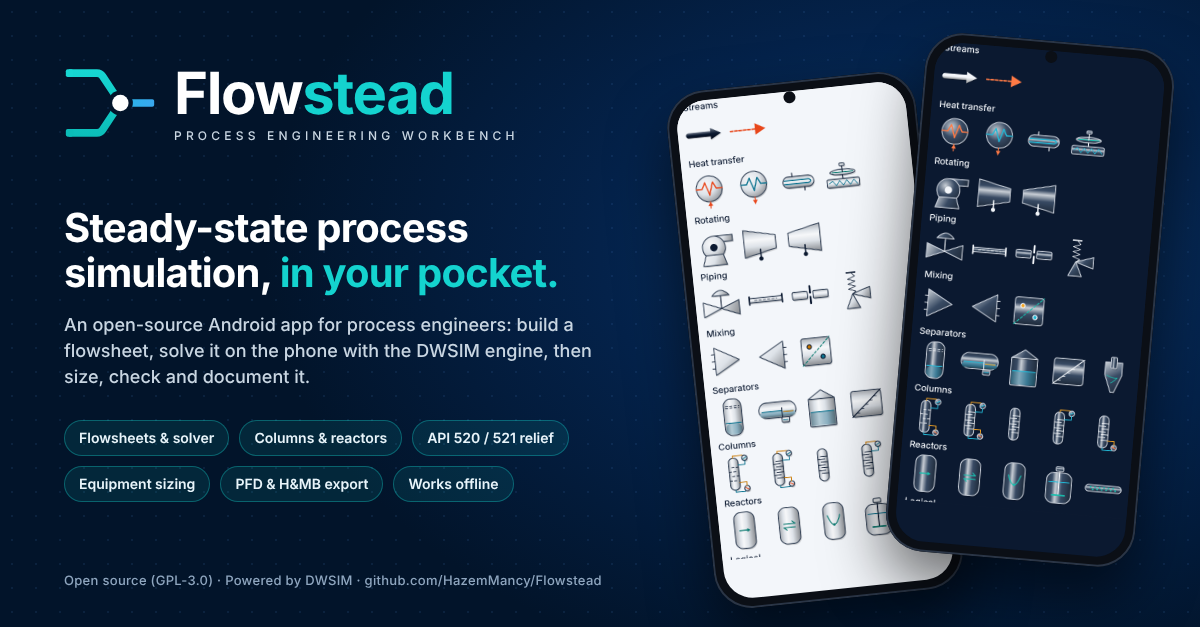
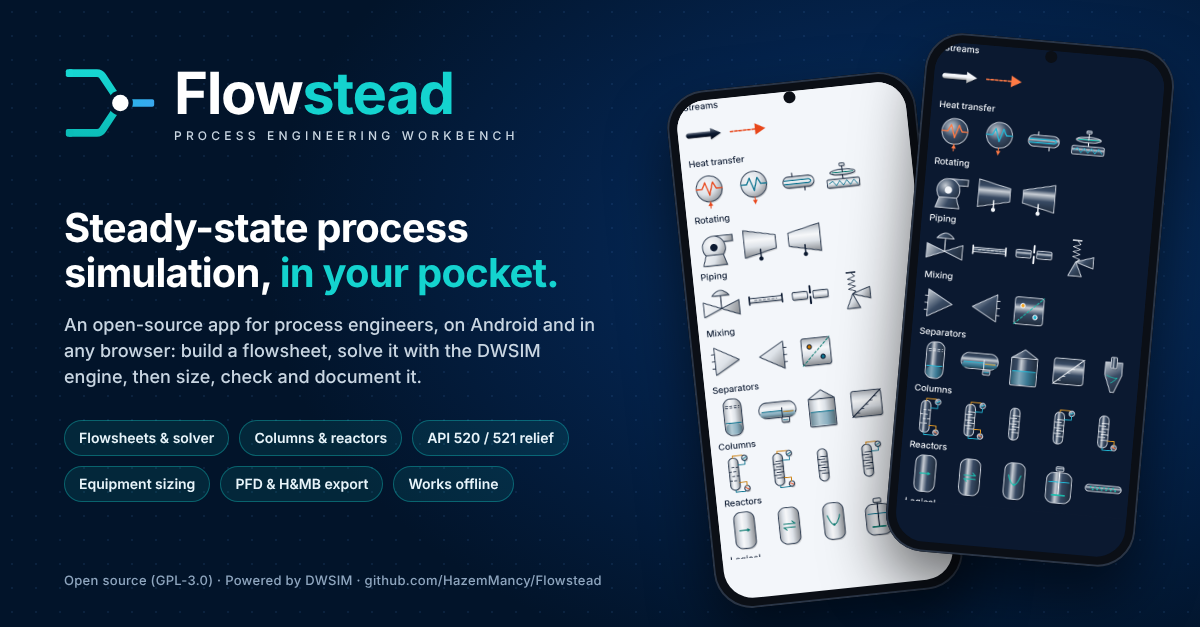
Flowstead page: Android and the web in titles, descriptions, hero and about; new featured image
Claude-Session: https://claude.ai/code/session_01HZRB96Aqg1V3VJki8fwms8

Changed region(s): [[0.0308, 0.4848, 0.4933, 0.6364]]

diff --git a/flowstead.html b/flowstead.html
@@ -3,21 +3,21 @@
 <head>
   <meta charset="UTF-8" />
   <meta name="viewport" content="width=device-width, initial-scale=1.0" />
-  <title>Flowstead — Open-Source Process Simulator for Android | Hazem ElMancy</title>
-  <meta name="description" content="Flowstead is an open-source (GPL-3.0) process simulator for Android built on the DWSIM engine: steady-state and dynamic flowsheets, columns, reactors, PSV sizing and relief (API 520/521/526), line sizing (API 14E) and PDF/Excel data sheets, checked against HYSYS cases." />
+  <title>Flowstead — Open-Source Process Simulator for Android and the Web | Hazem ElMancy</title>
+  <meta name="description" content="Flowstead is an open-source (GPL-3.0) process simulator for Android and the browser (iPhone, iPad, desktop) built on the DWSIM engine: steady-state and dynamic flowsheets, columns, reactors, PSV sizing and relief (API 520/521/526), line sizing (API 14E) and PDF/Excel data sheets, checked against HYSYS cases." />
   <link rel="canonical" href="https://hazemmancy.github.io/flowstead.html" />
   <meta property="og:type" content="website" />
   <meta property="og:site_name" content="Hazem ElMancy" />
-  <meta property="og:title" content="Flowstead — Open-Source Process Simulator for Android" />
-  <meta property="og:description" content="Steady-state and dynamic process simulation on Android, built on the DWSIM engine, with API 520/521/526 relief sizing and HYSYS-checked results. Created by Hazem ElMancy." />
+  <meta property="og:title" content="Flowstead — Open-Source Process Simulator for Android and the Web" />
+  <meta property="og:description" content="Steady-state and dynamic process simulation on Android and in any browser, built on the DWSIM engine, with API 520/521/526 relief sizing and HYSYS-checked results. Created by Hazem ElMancy." />
   <meta property="og:url" content="https://hazemmancy.github.io/flowstead.html" />
   <meta property="og:image" content="https://hazemmancy.github.io/assets/flowstead/flowstead-featured.png" />
   <meta property="og:image:width" content="1200" />
   <meta property="og:image:height" content="627" />
   <meta property="og:image:alt" content="Flowstead: steady-state process simulation in your pocket, shown on two phones" />
   <meta name="twitter:card" content="summary_large_image" />
-  <meta name="twitter:title" content="Flowstead — Open-Source Process Simulator for Android" />
-  <meta name="twitter:description" content="Steady-state and dynamic process simulation on Android, built on the DWSIM engine, with API 520/521/526 relief sizing and HYSYS-checked results." />
+  <meta name="twitter:title" content="Flowstead — Open-Source Process Simulator for Android and the Web" />
+  <meta name="twitter:description" content="Steady-state and dynamic process simulation on Android and in any browser, built on the DWSIM engine, with API 520/521/526 relief sizing and HYSYS-checked results." />
   <meta name="twitter:image" content="https://hazemmancy.github.io/assets/flowstead/flowstead-featured.png" />
   <meta name="twitter:image:alt" content="Flowstead: steady-state process simulation in your pocket, shown on two phones" />
   <link rel="icon" type="image/png" href="favicon.png" />
@@ -137,7 +137,7 @@
     <img src="assets/flowstead/flowstead-icon.png" alt="Flowstead app icon" class="app-icon" width="72" height="72" />
     <p class="section-label">SOFTWARE · PERSONAL PROJECT</p>
     <h1 class="hero-title">Flowstead</h1>
-    <p class="hero-sub">An open-source <strong style="color:var(--foreground)">process simulator for Android</strong>, built on the DWSIM thermodynamic engine: steady-state and dynamic flowsheets, relief and line sizing, and engineering deliverables, on a phone.</p>
+    <p class="hero-sub">An open-source <strong style="color:var(--foreground)">process simulator for Android and the web</strong>, built on the DWSIM thermodynamic engine: steady-state and dynamic flowsheets, relief and line sizing, and engineering deliverables. Install it on a phone, or open it in any browser with nothing to install.</p>
     <div class="hero-actions">
       <a href="https://github.com/HazemMancy/Flowstead/releases" target="_blank" rel="noopener noreferrer" class="btn btn-primary"><i data-lucide="download" style="width:16px;height:16px" aria-hidden="true"></i>Download APK</a>
       <a href="https://hazemmancy.github.io/Flowstead/" class="btn btn-outline"><i data-lucide="globe" style="width:16px;height:16px" aria-hidden="true"></i>Use in your browser</a>
@@ -166,7 +166,7 @@
     <p class="section-label">WHY I BUILT IT</p>
     <h2 class="section-title">A real simulation engine, in your pocket</h2>
     <div class="card"><div class="card-body-lg prose">
-      <p>Much of process engineering is quick checking: a flash, a line, a relief case. Flowstead lets you build, solve and check a flowsheet on a phone, with every number coming from the open-source <strong>DWSIM</strong> engine rather than shortcut correlations. It runs offline, and it is open source, so anyone can read how a result was produced.</p>
+      <p>Much of process engineering is quick checking: a flash, a line, a relief case. Flowstead lets you build, solve and check a flowsheet on a phone, or in a browser on an iPhone, iPad or computer, with every number coming from the open-source <strong>DWSIM</strong> engine rather than shortcut correlations. The Android app runs offline and the web version runs on your own device with no server, and it is open source, so anyone can read how a result was produced.</p>
       <p><strong>My role:</strong> creator and technical owner. I defined the product, set the engineering rules it follows, verified its results against HYSYS and released it.</p>
     </div></div>
   </div>

diff --git a/index.html b/index.html
@@ -235,7 +235,7 @@
   <div class="container-md">
     <div class="section-header"><p class="section-label mb-3">ABOUT ME</p><h2 class="section-title">Professional Summary</h2></div>
     <div class="card mb-4"><div class="card-body-lg">
-      <p class="text-sm leading-relaxed" style="color:var(--muted)">Process Engineer with <strong style="color:var(--foreground)">4 years of experience in concept, FEED and detailed engineering</strong> for onshore and offshore oil &amp; gas facilities, including brownfield revamps, pipelines, gas lift/gas injection systems and debottlenecking studies for clients such as <strong style="color:var(--foreground)">Eni, ADNOC Offshore, PhPC, NORPETCO and Indorama</strong>. <strong style="color:var(--foreground)">Aspen HYSYS Certified Expert User</strong>, skilled in steady-state simulation, heat &amp; material balances, hydraulics and line sizing, equipment sizing, PSV/relief and blowdown assessment, and in issuing <span class="text-primary font-medium">BOD, process philosophies, PFDs, P&amp;IDs, C&amp;E diagrams and datasheets</span>. Experienced in HAZID/HAZOP support, vendor document review and multidisciplinary coordination in line with API and ASME requirements. Creator of <a href="flowstead.html" class="text-primary font-medium" style="text-decoration:underline;text-underline-offset:2px">Flowstead</a>, an open-source process simulator for Android built on the DWSIM engine.</p>
+      <p class="text-sm leading-relaxed" style="color:var(--muted)">Process Engineer with <strong style="color:var(--foreground)">4 years of experience in concept, FEED and detailed engineering</strong> for onshore and offshore oil &amp; gas facilities, including brownfield revamps, pipelines, gas lift/gas injection systems and debottlenecking studies for clients such as <strong style="color:var(--foreground)">Eni, ADNOC Offshore, PhPC, NORPETCO and Indorama</strong>. <strong style="color:var(--foreground)">Aspen HYSYS Certified Expert User</strong>, skilled in steady-state simulation, heat &amp; material balances, hydraulics and line sizing, equipment sizing, PSV/relief and blowdown assessment, and in issuing <span class="text-primary font-medium">BOD, process philosophies, PFDs, P&amp;IDs, C&amp;E diagrams and datasheets</span>. Experienced in HAZID/HAZOP support, vendor document review and multidisciplinary coordination in line with API and ASME requirements. Creator of <a href="flowstead.html" class="text-primary font-medium" style="text-decoration:underline;text-underline-offset:2px">Flowstead</a>, an open-source process simulator for Android and the web, built on the DWSIM engine.</p>
     </div></div>
     <div class="about-grid">
       <div class="card"><div class="card-body">
